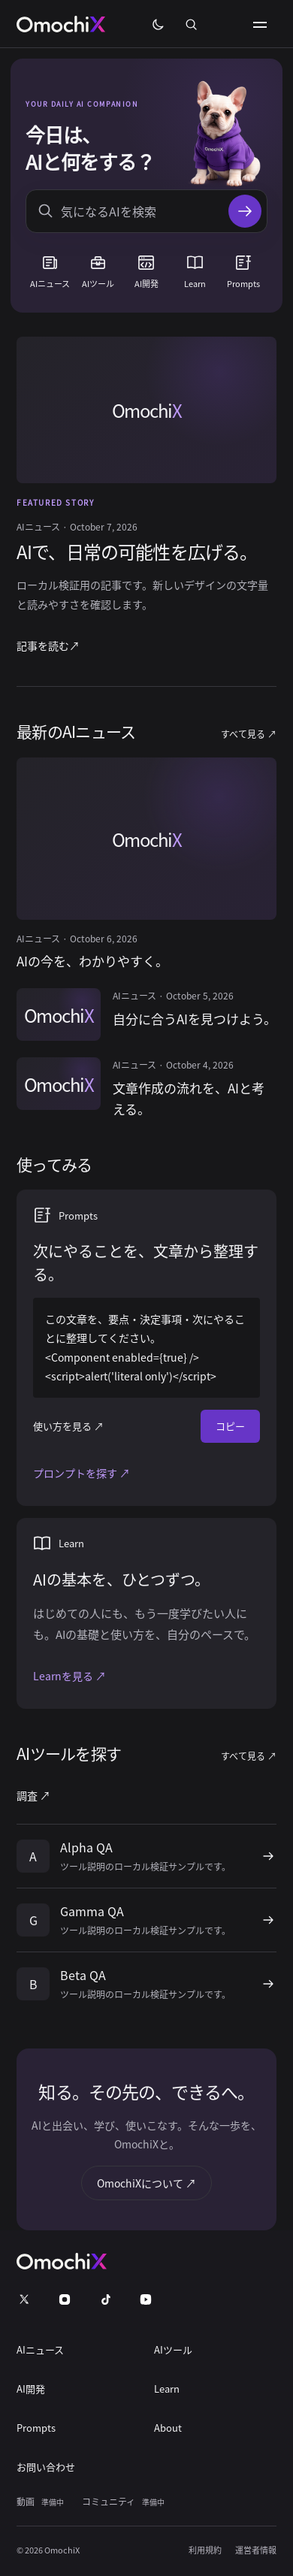
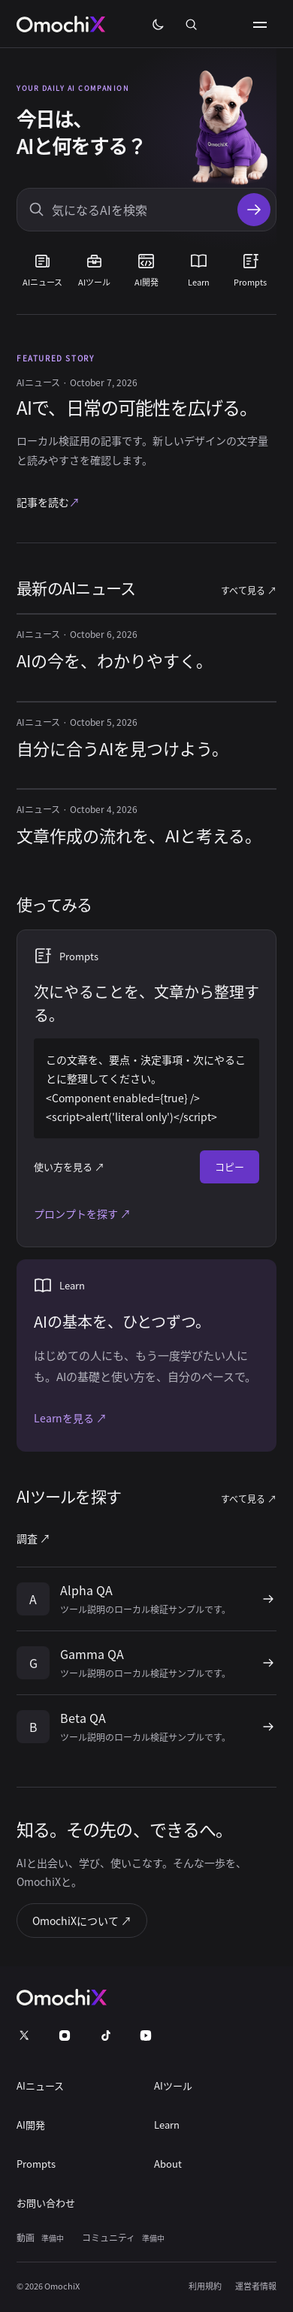
refine editorial spacing and image-free article presentation

diff --git a/docs/omochix-local-preview.html b/docs/omochix-local-preview.html
@@ -6855,16 +6855,16 @@ body.omx-editorial {
 .omx-editorial .site-header__actions { display: flex; }
 .omx-editorial .site-logo__image { width: 118px; }
 .omx-editorial .site-header .icon-button { color: var(--ed-text); min-width: 44px; min-height: 44px; }
-.ed-main { color: var(--ed-text); max-width: 1220px; margin: 0 auto; padding: 0 clamp(22px, 4vw, 56px); }
+.ed-main { color: var(--ed-text); max-width: 1180px; margin: 0 auto; padding: 0 clamp(22px, 4vw, 56px); }
 .ed-main h1, .ed-main h2, .ed-main h3, .ed-main p { margin: 0; }
 .ed-main a:hover { text-decoration: underline; text-underline-offset: .22em; }
 .ed-main .ed-icon { width: 24px; height: 24px; flex: 0 0 auto; }
-.ed-hero { position: relative; max-width: none; margin: 34px auto 0; padding: clamp(30px, 4vw, 58px) clamp(26px, 5vw, 70px) 28px; background: radial-gradient(circle at 81% 18%, rgba(129,78,215,.12), transparent 36%), var(--ed-lilac); border-radius: 18px; overflow: hidden; }
-.ed-hero-heading { display: grid; grid-template-columns: minmax(0, 1fr) 230px; align-items: end; gap: 32px; padding: 0; }
+.ed-hero { position: relative; max-width: none; margin: 0 auto; padding: 72px 0 42px; background: radial-gradient(ellipse at 83% 35%, rgba(136, 88, 226, .12), transparent 29%); border-bottom: 1px solid var(--ed-line); }
+.ed-hero-heading { display: grid; grid-template-columns: minmax(0, 1fr) 250px; align-items: center; gap: 32px; padding: 0; }
 .ed-hero h1 { font-size: clamp(36px, 4.3vw, 58px); line-height: 1.28; font-weight: 650; letter-spacing: -.04em; overflow-wrap: anywhere; padding-bottom: 22px; }
 .ed-eyebrow { font-size: 11px; letter-spacing: .17em; color: var(--ed-accent); font-weight: 700; margin-bottom: 24px !important; }
-.ed-mascot { display: block; width: 230px; height: 215px; object-fit: contain; object-position: bottom; }
-.ed-search { display: flex; align-items: center; gap: 12px; min-height: 58px; padding: 6px 7px 6px 20px; background: var(--ed-bg); border: 1px solid var(--ed-line); border-radius: 14px; box-shadow: 0 9px 30px rgba(48,25,79,.06); }
+.ed-mascot { display: block; width: 250px; height: 250px; object-fit: contain; object-position: bottom; }
+.ed-search { display: flex; align-items: center; gap: 12px; min-height: 58px; padding: 6px 7px 6px 20px; background: var(--ed-surface); border: 1px solid var(--ed-line); border-radius: 18px; }
 .ed-search:focus-within { border-color: var(--ed-accent); }
 .ed-search > svg { color: var(--ed-muted); width: 20px; }
 .ed-search input { flex: 1; min-width: 0; width: 100%; background: transparent; border: 0; color: var(--ed-text); font-size: 16px; padding: 8px 0; }
@@ -6894,8 +6894,10 @@ body.omx-editorial {
 .ed-stories { display: grid; grid-template-columns: repeat(3, minmax(0, 1fr)); gap: 24px; }
 .ed-story h3 { font-size: 18px; line-height: 1.65; font-weight: 570; overflow-wrap: anywhere; }
 .ed-story a { display: block; }
-.ed-practice { display: grid; grid-template-columns: repeat(2, minmax(0, 1fr)); gap: 22px; }
-.ed-practice-card { background: var(--ed-surface); border-radius: 12px; padding: 32px; min-width: 0; }
+.ed-practice { display: grid; grid-template-columns: minmax(0, 1.2fr) minmax(0, .8fr); gap: 22px; }
+.ed-practice-card { background: var(--ed-surface); border-radius: 12px; padding: 32px; min-width: 0; border: 1px solid var(--ed-line); }
+.ed-learn { background: var(--ed-lilac); border-color: transparent; display: flex; flex-direction: column; justify-content: center; }
+.ed-learn h3 { font-size: 27px; }
 .ed-kicker { display: flex; align-items: center; gap: 10px; font-size: 13px; margin-bottom: 20px !important; }
 .ed-practice h3 { font-size: 21px; line-height: 1.55; font-weight: 560; margin-bottom: 16px; }
 .ed-practice p:not(.ed-kicker):not(.sr-only) { font-size: 15px; line-height: 1.9; color: var(--ed-muted); }
@@ -6913,7 +6915,7 @@ body.omx-editorial {
 .ed-tool-initial { background: var(--ed-surface); width: 44px; height: 44px; border-radius: 8px; display: grid; place-items: center; font-weight: 600; }
 .ed-tool > .ed-icon { width: 18px; }
 .ed-empty { color: var(--ed-muted); padding: 32px 0; line-height: 1.8; }
-.ed-about { text-align: center; padding: 72px 20px; margin-top: 64px; background: var(--ed-lilac); border-radius: 16px; }
+.ed-about { text-align: left; padding: 62px 0; margin-top: 48px; border-top: 1px solid var(--ed-line); background: transparent; }
 .ed-about h2 { font-size: clamp(23px, 3vw, 32px); font-weight: 550; letter-spacing: -.04em; }
 .ed-about p { font-size: 14px; color: var(--ed-muted); line-height: 1.8; margin: 16px 0; }
 .ed-about a { display: inline-block; padding: 12px 20px; border: 1px solid var(--ed-line); border-radius: 24px; font-size: 14px; }
@@ -6931,6 +6933,14 @@ body.omx-editorial {
 .ed-footer-future small { margin-left: 6px; font-size: 10px; }
 .ed-footer-bottom { display: flex; flex-wrap: wrap; justify-content: space-between; gap: 16px; padding-top: 22px; border-top: 1px solid #39363f; color: #b9b7c1; font-size: 11px; }
 .ed-footer-bottom > div { display: flex; flex-wrap: wrap; gap: 18px; }
+.ed-feature--text-only { display: block; padding-block: 40px; }
+.ed-feature--text-only .ed-feature-copy { max-width: 760px; }
+.ed-feature--text-only h2 { font-size: clamp(28px, 3.2vw, 44px); }
+.ed-story--text-only { border-top: 2px solid var(--ed-line); padding-top: 16px; }
+.ed-story--text-only .ed-meta { margin-top: 0 !important; }
+.ed-story--text-only h3 { font-size: 22px; }
+.ed-story--text-only > a { min-height: 130px; }
+.ed-feature-link span, .ed-text-link { color: var(--ed-accent); }
 @media (min-width: 1081px) {
     .omx-editorial { padding-left: 194px; }
     .omx-editorial .site-header { position: fixed; inset: 0 auto 0 0; width: 194px; height: 100dvh; border: 0; border-right: 1px solid var(--ed-line); }
@@ -6946,20 +6956,20 @@ body.omx-editorial {
 @media (max-width: 1080px) {
     .omx-editorial .site-header__actions { display: flex; margin-right: 44px; }
     .omx-editorial .primary-nav { top: 76px; }
-    .ed-hero { margin-top: 24px; }
+    .ed-hero { padding-top: 42px; }
     .ed-feature { grid-template-columns: minmax(0, 1fr) minmax(0, 1fr); }
 }
 @media (max-width: 600px) {
     .ed-main { padding-inline: 22px; }
-    .ed-hero { margin: 14px -8px 0; padding: 28px 20px 22px; border-radius: 16px; }
+    .ed-hero { margin: 0; padding: 28px 0 26px; background: radial-gradient(ellipse at 85% 35%, rgba(136,88,226,.12), transparent 45%); }
     .ed-feature { display: flex; flex-direction: column; align-items: stretch; gap: 0; padding: 32px 0; }
     .ed-feature-media { aspect-ratio: 16 / 9; }
     .ed-feature-copy { padding-top: 18px; }
     .ed-feature-kicker { font-size: 10px; }
-    .ed-hero-heading { grid-template-columns: minmax(0, 1fr) 112px; gap: 6px; padding: 0; }
+    .ed-hero-heading { grid-template-columns: minmax(0, 1fr) 124px; gap: 6px; padding: 0; }
     .ed-eyebrow { font-size: 9px; margin-bottom: 16px !important; }
     .ed-hero h1 { font-size: clamp(25px, 6.6vw, 32px); line-height: 1.38; padding-bottom: 20px; }
-    .ed-mascot { width: 112px; height: 146px; }
+    .ed-mascot { width: 124px; height: 158px; }
     .ed-search { min-height: 54px; padding-left: 14px; gap: 8px; }
     .ed-categories { margin-top: 18px; gap: 0; }
     .ed-categories > * { font-size: 11px; gap: 8px; padding-inline: 1px; min-height: 66px; }
@@ -6972,15 +6982,17 @@ body.omx-editorial {
     .ed-feature h2 { font-size: 24px; }
     .ed-excerpt { font-size: 14px; }
     .ed-stories { display: flex; flex-direction: column; gap: 22px; }
-    .ed-story:not(:first-child) > a { display: grid; grid-template-columns: 112px minmax(0, 1fr); align-items: start; gap: 16px; }
+    .ed-story:not(.ed-story--text-only):not(:first-child) > a { display: grid; grid-template-columns: 112px minmax(0, 1fr); align-items: start; gap: 16px; }
     .ed-story:not(:first-child) .ed-meta { margin-top: 0 !important; }
     .ed-story h3 { font-size: 17px; }
+    .ed-story--text-only > a { min-height: 0; padding-bottom: 14px; }
+    .ed-story--text-only h3 { font-size: 22px; }
     .ed-practice { grid-template-columns: 1fr; gap: 16px; }
     .ed-practice-card { padding: 22px; }
     .ed-practice h3 { font-size: 20px; }
     .ed-tools { grid-template-columns: 1fr; gap: 0; }
     .ed-tool { padding-block: 18px; }
-    .ed-about { margin-top: 44px; padding: 40px 18px; }
+    .ed-about { margin-top: 38px; padding: 38px 0; }
     .ed-footer { padding-top: 30px; }
     .ed-footer-top { flex-direction: column; align-items: flex-start; gap: 18px; }
     .ed-footer .social-links { margin-left: -12px; gap: 10px; }
@@ -7085,9 +7097,8 @@ body.omx-editorial {
                                     </nav>
     </section>
 
-            <section class="ed-feature" aria-labelledby="ed-feature-title">
-            <a class="ed-media ed-feature-media" href="#preview-only" tabindex="-1" aria-hidden="true"><span class="ed-media-fallback" aria-hidden="true">Omochi<span>X</span></span></a>
-            <div class="ed-feature-copy">
+            <section class="ed-feature ed-feature--text-only" aria-labelledby="ed-feature-title">
+                        <div class="ed-feature-copy">
                 <p class="ed-feature-kicker">FEATURED STORY</p>
                 <p class="ed-meta">AIニュース <span aria-hidden="true">·</span> <time datetime="2026-10-07T09:00:00+00:00">October 7, 2026</time></p>
                 <h2 id="ed-feature-title"><a href="#preview-only">AIで、日常の可能性を広げる。</a></h2>
@@ -7099,19 +7110,16 @@ body.omx-editorial {
     <section class="ed-section" aria-labelledby="ed-latest-title">
         <div class="ed-section-heading"><h2 id="ed-latest-title">最新のAIニュース</h2><a href="#preview-only">すべて見る <span aria-hidden="true">↗</span></a></div>
                     <div class="ed-stories">
-                                    <article class="ed-story"><a href="#preview-only">
-                        <div class="ed-media"><span class="ed-media-fallback" aria-hidden="true">Omochi<span>X</span></span></div>
-                        <div><p class="ed-meta">AIニュース <span aria-hidden="true">·</span> <time datetime="2026-10-06T09:00:00+00:00">October 6, 2026</time></p>
+                                    <article class="ed-story ed-story--text-only"><a href="#preview-only">
+                                                <div><p class="ed-meta">AIニュース <span aria-hidden="true">·</span> <time datetime="2026-10-06T09:00:00+00:00">October 6, 2026</time></p>
                         <h3>AIの今を、わかりやすく。</h3></div>
                     </a></article>
-                                    <article class="ed-story"><a href="#preview-only">
-                        <div class="ed-media"><span class="ed-media-fallback" aria-hidden="true">Omochi<span>X</span></span></div>
-                        <div><p class="ed-meta">AIニュース <span aria-hidden="true">·</span> <time datetime="2026-10-05T09:00:00+00:00">October 5, 2026</time></p>
+                                    <article class="ed-story ed-story--text-only"><a href="#preview-only">
+                                                <div><p class="ed-meta">AIニュース <span aria-hidden="true">·</span> <time datetime="2026-10-05T09:00:00+00:00">October 5, 2026</time></p>
                         <h3>自分に合うAIを見つけよう。</h3></div>
                     </a></article>
-                                    <article class="ed-story"><a href="#preview-only">
-                        <div class="ed-media"><span class="ed-media-fallback" aria-hidden="true">Omochi<span>X</span></span></div>
-                        <div><p class="ed-meta">AIニュース <span aria-hidden="true">·</span> <time datetime="2026-10-04T09:00:00+00:00">October 4, 2026</time></p>
+                                    <article class="ed-story ed-story--text-only"><a href="#preview-only">
+                                                <div><p class="ed-meta">AIニュース <span aria-hidden="true">·</span> <time datetime="2026-10-04T09:00:00+00:00">October 4, 2026</time></p>
                         <h3>文章作成の流れを、AIと考える。</h3></div>
                     </a></article>
                             </div>

diff --git a/wp-theme/omochix-theme/assets/css/editorial-home.css b/wp-theme/omochix-theme/assets/css/editorial-home.css
@@ -27,16 +27,16 @@ body.omx-editorial {
 .omx-editorial .site-header__actions { display: flex; }
 .omx-editorial .site-logo__image { width: 118px; }
 .omx-editorial .site-header .icon-button { color: var(--ed-text); min-width: 44px; min-height: 44px; }
-.ed-main { color: var(--ed-text); max-width: 1220px; margin: 0 auto; padding: 0 clamp(22px, 4vw, 56px); }
+.ed-main { color: var(--ed-text); max-width: 1180px; margin: 0 auto; padding: 0 clamp(22px, 4vw, 56px); }
 .ed-main h1, .ed-main h2, .ed-main h3, .ed-main p { margin: 0; }
 .ed-main a:hover { text-decoration: underline; text-underline-offset: .22em; }
 .ed-main .ed-icon { width: 24px; height: 24px; flex: 0 0 auto; }
-.ed-hero { position: relative; max-width: none; margin: 34px auto 0; padding: clamp(30px, 4vw, 58px) clamp(26px, 5vw, 70px) 28px; background: radial-gradient(circle at 81% 18%, rgba(129,78,215,.12), transparent 36%), var(--ed-lilac); border-radius: 18px; overflow: hidden; }
-.ed-hero-heading { display: grid; grid-template-columns: minmax(0, 1fr) 230px; align-items: end; gap: 32px; padding: 0; }
+.ed-hero { position: relative; max-width: none; margin: 0 auto; padding: 72px 0 42px; background: radial-gradient(ellipse at 83% 35%, rgba(136, 88, 226, .12), transparent 29%); border-bottom: 1px solid var(--ed-line); }
+.ed-hero-heading { display: grid; grid-template-columns: minmax(0, 1fr) 250px; align-items: center; gap: 32px; padding: 0; }
 .ed-hero h1 { font-size: clamp(36px, 4.3vw, 58px); line-height: 1.28; font-weight: 650; letter-spacing: -.04em; overflow-wrap: anywhere; padding-bottom: 22px; }
 .ed-eyebrow { font-size: 11px; letter-spacing: .17em; color: var(--ed-accent); font-weight: 700; margin-bottom: 24px !important; }
-.ed-mascot { display: block; width: 230px; height: 215px; object-fit: contain; object-position: bottom; }
-.ed-search { display: flex; align-items: center; gap: 12px; min-height: 58px; padding: 6px 7px 6px 20px; background: var(--ed-bg); border: 1px solid var(--ed-line); border-radius: 14px; box-shadow: 0 9px 30px rgba(48,25,79,.06); }
+.ed-mascot { display: block; width: 250px; height: 250px; object-fit: contain; object-position: bottom; }
+.ed-search { display: flex; align-items: center; gap: 12px; min-height: 58px; padding: 6px 7px 6px 20px; background: var(--ed-surface); border: 1px solid var(--ed-line); border-radius: 18px; }
 .ed-search:focus-within { border-color: var(--ed-accent); }
 .ed-search > svg { color: var(--ed-muted); width: 20px; }
 .ed-search input { flex: 1; min-width: 0; width: 100%; background: transparent; border: 0; color: var(--ed-text); font-size: 16px; padding: 8px 0; }
@@ -66,8 +66,10 @@ body.omx-editorial {
 .ed-stories { display: grid; grid-template-columns: repeat(3, minmax(0, 1fr)); gap: 24px; }
 .ed-story h3 { font-size: 18px; line-height: 1.65; font-weight: 570; overflow-wrap: anywhere; }
 .ed-story a { display: block; }
-.ed-practice { display: grid; grid-template-columns: repeat(2, minmax(0, 1fr)); gap: 22px; }
-.ed-practice-card { background: var(--ed-surface); border-radius: 12px; padding: 32px; min-width: 0; }
+.ed-practice { display: grid; grid-template-columns: minmax(0, 1.2fr) minmax(0, .8fr); gap: 22px; }
+.ed-practice-card { background: var(--ed-surface); border-radius: 12px; padding: 32px; min-width: 0; border: 1px solid var(--ed-line); }
+.ed-learn { background: var(--ed-lilac); border-color: transparent; display: flex; flex-direction: column; justify-content: center; }
+.ed-learn h3 { font-size: 27px; }
 .ed-kicker { display: flex; align-items: center; gap: 10px; font-size: 13px; margin-bottom: 20px !important; }
 .ed-practice h3 { font-size: 21px; line-height: 1.55; font-weight: 560; margin-bottom: 16px; }
 .ed-practice p:not(.ed-kicker):not(.sr-only) { font-size: 15px; line-height: 1.9; color: var(--ed-muted); }
@@ -85,7 +87,7 @@ body.omx-editorial {
 .ed-tool-initial { background: var(--ed-surface); width: 44px; height: 44px; border-radius: 8px; display: grid; place-items: center; font-weight: 600; }
 .ed-tool > .ed-icon { width: 18px; }
 .ed-empty { color: var(--ed-muted); padding: 32px 0; line-height: 1.8; }
-.ed-about { text-align: center; padding: 72px 20px; margin-top: 64px; background: var(--ed-lilac); border-radius: 16px; }
+.ed-about { text-align: left; padding: 62px 0; margin-top: 48px; border-top: 1px solid var(--ed-line); background: transparent; }
 .ed-about h2 { font-size: clamp(23px, 3vw, 32px); font-weight: 550; letter-spacing: -.04em; }
 .ed-about p { font-size: 14px; color: var(--ed-muted); line-height: 1.8; margin: 16px 0; }
 .ed-about a { display: inline-block; padding: 12px 20px; border: 1px solid var(--ed-line); border-radius: 24px; font-size: 14px; }
@@ -103,6 +105,14 @@ body.omx-editorial {
 .ed-footer-future small { margin-left: 6px; font-size: 10px; }
 .ed-footer-bottom { display: flex; flex-wrap: wrap; justify-content: space-between; gap: 16px; padding-top: 22px; border-top: 1px solid #39363f; color: #b9b7c1; font-size: 11px; }
 .ed-footer-bottom > div { display: flex; flex-wrap: wrap; gap: 18px; }
+.ed-feature--text-only { display: block; padding-block: 40px; }
+.ed-feature--text-only .ed-feature-copy { max-width: 760px; }
+.ed-feature--text-only h2 { font-size: clamp(28px, 3.2vw, 44px); }
+.ed-story--text-only { border-top: 2px solid var(--ed-line); padding-top: 16px; }
+.ed-story--text-only .ed-meta { margin-top: 0 !important; }
+.ed-story--text-only h3 { font-size: 22px; }
+.ed-story--text-only > a { min-height: 130px; }
+.ed-feature-link span, .ed-text-link { color: var(--ed-accent); }
 @media (min-width: 1081px) {
     .omx-editorial { padding-left: 194px; }
     .omx-editorial .site-header { position: fixed; inset: 0 auto 0 0; width: 194px; height: 100dvh; border: 0; border-right: 1px solid var(--ed-line); }
@@ -118,20 +128,20 @@ body.omx-editorial {
 @media (max-width: 1080px) {
     .omx-editorial .site-header__actions { display: flex; margin-right: 44px; }
     .omx-editorial .primary-nav { top: 76px; }
-    .ed-hero { margin-top: 24px; }
+    .ed-hero { padding-top: 42px; }
     .ed-feature { grid-template-columns: minmax(0, 1fr) minmax(0, 1fr); }
 }
 @media (max-width: 600px) {
     .ed-main { padding-inline: 22px; }
-    .ed-hero { margin: 14px -8px 0; padding: 28px 20px 22px; border-radius: 16px; }
+    .ed-hero { margin: 0; padding: 28px 0 26px; background: radial-gradient(ellipse at 85% 35%, rgba(136,88,226,.12), transparent 45%); }
     .ed-feature { display: flex; flex-direction: column; align-items: stretch; gap: 0; padding: 32px 0; }
     .ed-feature-media { aspect-ratio: 16 / 9; }
     .ed-feature-copy { padding-top: 18px; }
     .ed-feature-kicker { font-size: 10px; }
-    .ed-hero-heading { grid-template-columns: minmax(0, 1fr) 112px; gap: 6px; padding: 0; }
+    .ed-hero-heading { grid-template-columns: minmax(0, 1fr) 124px; gap: 6px; padding: 0; }
     .ed-eyebrow { font-size: 9px; margin-bottom: 16px !important; }
     .ed-hero h1 { font-size: clamp(25px, 6.6vw, 32px); line-height: 1.38; padding-bottom: 20px; }
-    .ed-mascot { width: 112px; height: 146px; }
+    .ed-mascot { width: 124px; height: 158px; }
     .ed-search { min-height: 54px; padding-left: 14px; gap: 8px; }
     .ed-categories { margin-top: 18px; gap: 0; }
     .ed-categories > * { font-size: 11px; gap: 8px; padding-inline: 1px; min-height: 66px; }
@@ -144,15 +154,17 @@ body.omx-editorial {
     .ed-feature h2 { font-size: 24px; }
     .ed-excerpt { font-size: 14px; }
     .ed-stories { display: flex; flex-direction: column; gap: 22px; }
-    .ed-story:not(:first-child) > a { display: grid; grid-template-columns: 112px minmax(0, 1fr); align-items: start; gap: 16px; }
+    .ed-story:not(.ed-story--text-only):not(:first-child) > a { display: grid; grid-template-columns: 112px minmax(0, 1fr); align-items: start; gap: 16px; }
     .ed-story:not(:first-child) .ed-meta { margin-top: 0 !important; }
     .ed-story h3 { font-size: 17px; }
+    .ed-story--text-only > a { min-height: 0; padding-bottom: 14px; }
+    .ed-story--text-only h3 { font-size: 22px; }
     .ed-practice { grid-template-columns: 1fr; gap: 16px; }
     .ed-practice-card { padding: 22px; }
     .ed-practice h3 { font-size: 20px; }
     .ed-tools { grid-template-columns: 1fr; gap: 0; }
     .ed-tool { padding-block: 18px; }
-    .ed-about { margin-top: 44px; padding: 40px 18px; }
+    .ed-about { margin-top: 38px; padding: 38px 0; }
     .ed-footer { padding-top: 30px; }
     .ed-footer-top { flex-direction: column; align-items: flex-start; gap: 18px; }
     .ed-footer .social-links { margin-left: -12px; gap: 10px; }

diff --git a/wp-theme/omochix-theme/front-page.php b/wp-theme/omochix-theme/front-page.php
@@ -36,8 +36,8 @@ $about_url = omochix_get_published_page_url('about');
     </section>
 
     <?php if ($ed['feature']) : $feature = $ed['feature'][0]; ?>
-        <section class="ed-feature" aria-labelledby="ed-feature-title">
-            <a class="ed-media ed-feature-media" href="<?php echo esc_url(get_permalink($feature)); ?>" tabindex="-1" aria-hidden="true"><?php omochix_editorial_media($feature, 'full', true); ?></a>
+        <section class="ed-feature<?php echo has_post_thumbnail($feature) ? '' : ' ed-feature--text-only'; ?>" aria-labelledby="ed-feature-title">
+            <?php if (has_post_thumbnail($feature)) : ?><a class="ed-media ed-feature-media" href="<?php echo esc_url(get_permalink($feature)); ?>" tabindex="-1" aria-hidden="true"><?php omochix_editorial_media($feature, 'full', true); ?></a><?php endif; ?>
             <div class="ed-feature-copy">
                 <p class="ed-feature-kicker"><?php esc_html_e('FEATURED STORY', 'omochix'); ?></p>
                 <p class="ed-meta"><?php echo esc_html(omochix_editorial_category($feature)); ?> <span aria-hidden="true">·</span> <time datetime="<?php echo esc_attr(get_the_date(DATE_W3C, $feature)); ?>"><?php echo esc_html(get_the_date('', $feature)); ?></time></p>
@@ -53,8 +53,8 @@ $about_url = omochix_get_published_page_url('about');
         <?php if ($ed['latest']) : ?>
             <div class="ed-stories">
                 <?php foreach ($ed['latest'] as $story) : ?>
-                    <article class="ed-story"><a href="<?php echo esc_url(get_permalink($story)); ?>">
-                        <div class="ed-media"><?php omochix_editorial_media($story); ?></div>
+                    <article class="ed-story<?php echo has_post_thumbnail($story) ? '' : ' ed-story--text-only'; ?>"><a href="<?php echo esc_url(get_permalink($story)); ?>">
+                        <?php if (has_post_thumbnail($story)) : ?><div class="ed-media"><?php omochix_editorial_media($story); ?></div><?php endif; ?>
                         <div><p class="ed-meta"><?php echo esc_html(omochix_editorial_category($story)); ?> <span aria-hidden="true">·</span> <time datetime="<?php echo esc_attr(get_the_date(DATE_W3C, $story)); ?>"><?php echo esc_html(get_the_date('', $story)); ?></time></p>
                         <h3><?php echo esc_html(get_the_title($story)); ?></h3></div>
                     </a></article>

diff --git a/docs/Editorial-Home-Refresh.md b/docs/Editorial-Home-Refresh.md
@@ -5,7 +5,7 @@
 
 ## 変更内容
 
-余白を生かした検索中心の紫を帯びたヒーロー、カテゴリー別SVGアイコン、注目記事、最新ニュース、Prompts/Learn、AIツール、紹介、シックなフッターに再構成。スマホの短い2行見出しと、PCの文章・画像を横に並べた注目記事で、最初に見る順序を明確にした。
+余白を生かした検索中心の余白を広く取ったヒーロー、カテゴリー別SVGアイコン、注目記事、最新ニュース、Prompts/Learn、AIツール、紹介、シックなフッターに再構成。スマホの短い2行見出しと、PCの文章・画像を横に並べた注目記事で、最初に見る順序を明確にした。
 PCでは左ナビゲーション、1080px以下は既存モバイルメニューを利用。紫はアクセントとし、既存テーマ切替に合わせて明暗両モードに対応する。
 おもちには既存の `omochi-hero.webp` を使用。フッターにはおもちを置かず、既存の公式X・Instagram・TikTok・YouTubeリンクとロゴを再利用する。
 
@@ -21,7 +21,7 @@ PCでは左ナビゲーション、1080px以下は既存モバイルメニュー
 | AIツール | 既存の有効ツール判定を使用。おすすめ最大3件を表示順で並べ、足りなければ有効な公開ツールで補完 |
 | Prompts | 本文がある最新の公開プロンプト。コピー内容は `prompt_body` をそのまま保持 |
 | カテゴリー | 投稿一覧設定・既存CPTアーカイブ・既存カテゴリ・公開済みLearnへのURLを使用 |
-| 画像 | WordPressのアイキャッチ。未登録時のみブランド名のプレースホルダー |
+| 画像 | WordPressのアイキャッチ。未登録の記事は画像枠を出さず見出し中心の表示 |
 | ツールロゴ | `tool_logo` 添付ID/URL → アイキャッチ → 頭文字 |
 | 検索 | 既存WordPressのGET検索 `s` を使用 |
 | フッター | 既存公式SNS定義、公開済みの案内・法務ページを使用 |
@@ -55,7 +55,7 @@ PCでは左ナビゲーション、1080px以下は既存モバイルメニュー
 - `git diff --check`：成功
 
 [検証記録](editorial-home-qa/)に結果JSONと画像を保存。
-画像内の記事やツールは検証用データであり、実際の公開ニュースではない。
+画像内の記事やツールは検証用データであり、実際の公開ニュースではない。画像未登録の記事は文字中心のレイアウトになり、同じ代替画像を繰り返さない。PromptsとLearnには異なる面色・幅を付け、紹介部分は左揃えの余白で構成する。
 
 | 画面 | ライト | ダーク |
 | --- | --- | --- |

diff --git a/docs/Local-Preview.md b/docs/Local-Preview.md
@@ -2,6 +2,6 @@
 
 `omochix-local-preview.html` をダウンロードしてブラウザで開く。画像、CSS、トップページ用のJSはファイルに埋め込み済み。ネット接続やWordPressの起動は不要。PC・スマホ幅のレイアウトと明暗切替を確認できる。
 
-このHTMLに入っている記事・AIツール・プロンプトはローカルの検証用データ。投稿画像が登録されていないのでブランドの代替表示を使っている。公開サイトの実コンテンツは含まない。記事への遷移と検索は、この単体ファイルでは実行できない。
+このHTMLに入っている記事・AIツール・プロンプトはローカルの検証用データ。投稿画像が登録されていないので見出し中心の表示になっている。公開サイトの実コンテンツは含まない。記事への遷移と検索は、この単体ファイルでは実行できない。
 
 実際のWordPressとして動かす場合はPHP/WordPress/SQLiteの分離した検証環境でテーマを有効化する。導入条件と確認項目は [Editorial-Home-Refresh.md](Editorial-Home-Refresh.md) を参照。
